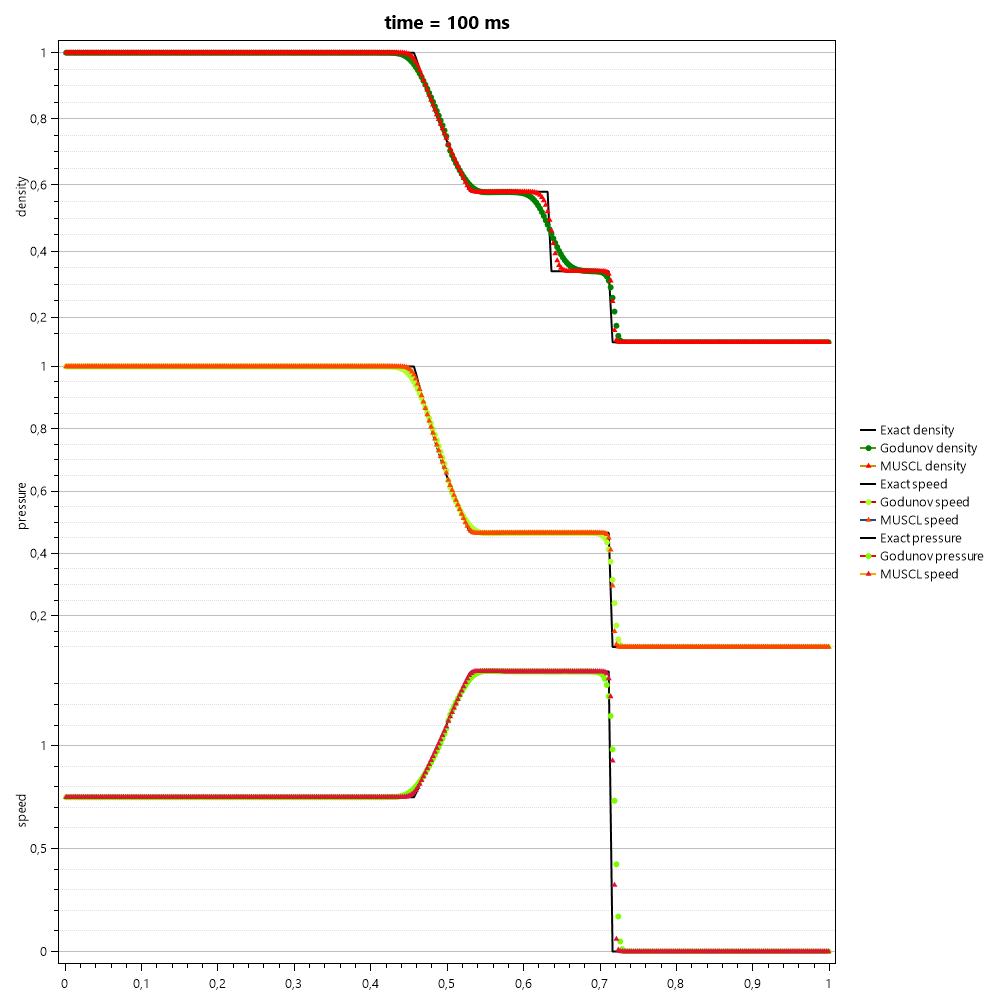
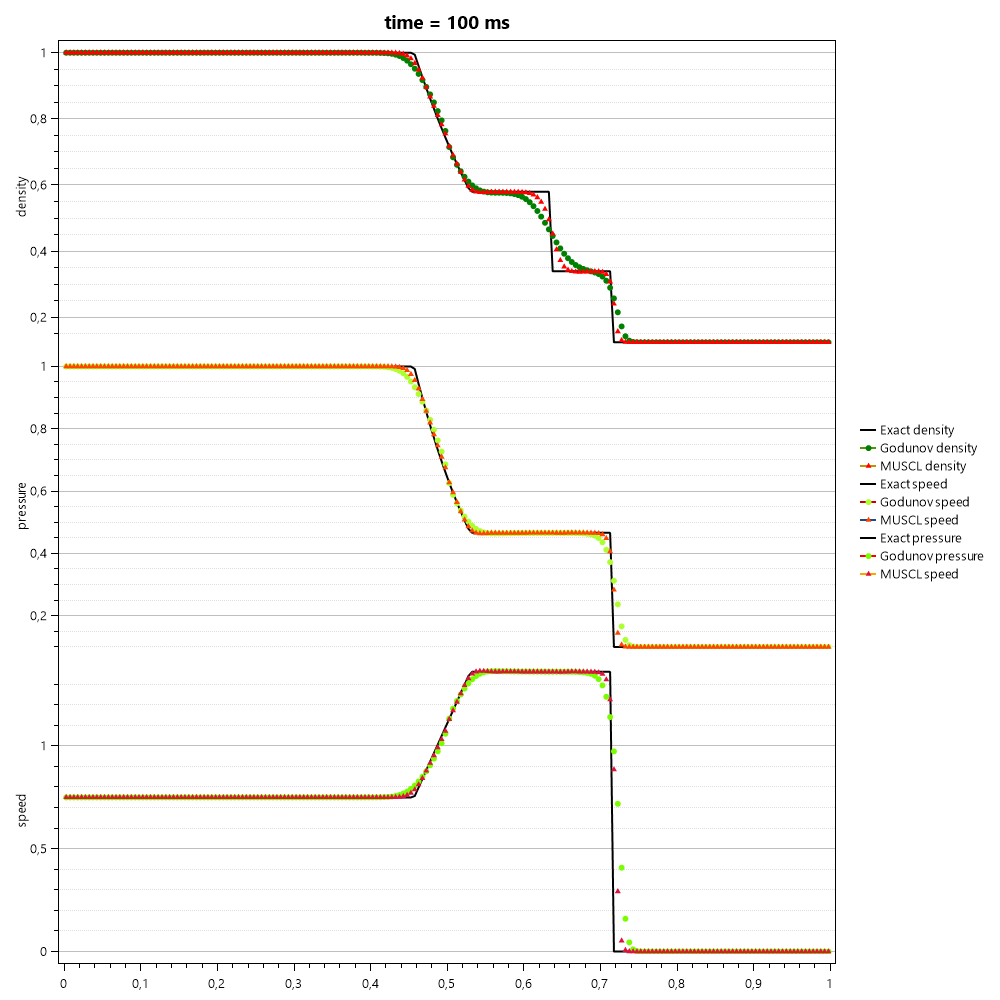
path

diff --git a/CFL/minmod.cs b/CFL/minmod.cs
@@ -29,7 +29,7 @@ namespace Sod.CFL
         }
 
 
-        public double[,] CalculateWrite(string result_name_file, bool write = true, int presision = 3, double CFL = 0.2, bool modified= false, string path="")
+        public double[,] CalculateWrite(string result_name_file, bool write = true, int presision = 3, double CFL = 0.2, bool prediction= true, string path="")
         {
             int boundary = 1;
             result_name_file += "minmod_";
@@ -272,10 +272,14 @@ namespace Sod.CFL
 
         double[] AddQm(double[] u, double[] q,double h,double sign = 1)
         {
+
             double[] res = new double[u.Length];
             for (int i = 0;i<u.Length;i++)
             {
-                res[i] = u[i]+ sign*0.5 * h * q[i];
+                if (q[i] != 0)
+                    res[i] = u[i]+ sign*0.5 * h * q[i];
+                else
+                    res[i] = u[i];
             }
             return res;
         }

diff --git a/Program.cs b/Program.cs
@@ -13,7 +13,7 @@ namespace Sod
         static void Main()
         {
             string path = "C:\\Users\\priym\\source\\repos\\Sod\\1_results\\";
-            int N = 400;
+            int N = 200;
             string result_name_file = $"";
             double gamma = 1.4;
             double time = 0.1;
